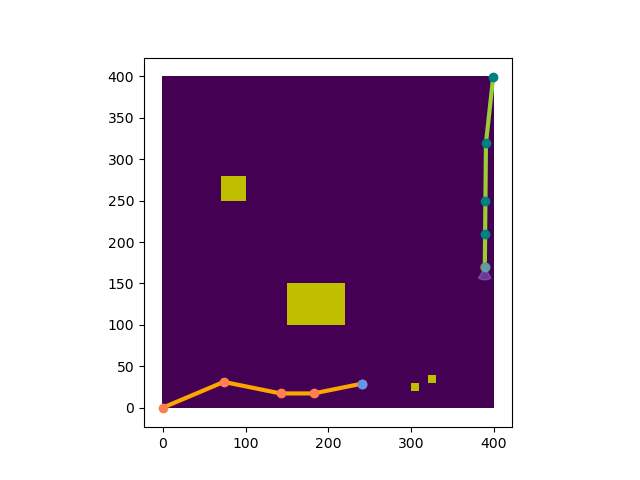
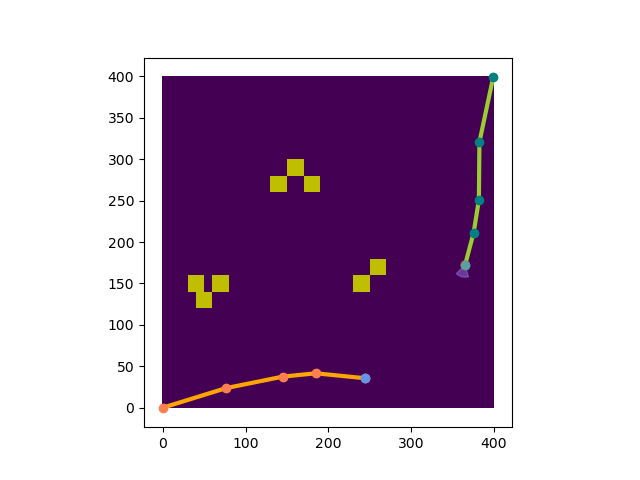
not bad

diff --git a/TaskInspectionPlanner.py b/TaskInspectionPlanner.py
@@ -89,15 +89,19 @@ class TaskInspectionPlanner(object):
                     current_inspected_timestamps = deepcopy(old_inspected_timestamps)
 
                 #add to collection of configs which managed to see a new POI
-                if len(old_inspected_timestamps) < len(current_inspected_timestamps):
-                    self.save_config(extended_config)
-                    print('improved')
-                    print(f'vertex parent info: \n timestamp: {self.tree.vertices[near_config_idx].timestamp} \n inspected timestamps: {old_inspected_timestamps}\n')
-                    print(f'new vertex info: \n timestamp: {extended_timestamp} \n inspected timestamps: {current_inspected_timestamps}\n')
+                # if len(old_inspected_timestamps) < len(current_inspected_timestamps):
+                #     self.save_config(extended_config)
+                    # print('improved')
+                    # print(f'vertex parent info: \n timestamp: {self.tree.vertices[near_config_idx].timestamp} \n inspected timestamps: {old_inspected_timestamps}\n')
+                    # print(f'new vertex info: \n timestamp: {extended_timestamp} \n inspected timestamps: {current_inspected_timestamps}\n')
 
                 extended_config_idx = self.tree.add_vertex(extended_config, extended_timestamp, inspected_timestamps=current_inspected_timestamps)
                 edge_cost = np.linalg.norm(near_config - extended_config) #POSSIBLY CHANGE THIS
                 self.tree.add_edge(near_config_idx, extended_config_idx, edge_cost)
+
+                print(f'parent timestamp = {near_timestamp}, extended_timestamp = {extended_timestamp}')
+
+                self.find_inspected_from_edge(self.tree.vertices[near_config_idx], self.tree.vertices[extended_config_idx])
 
                 if self.tree.max_coverage > self.current_coverage:
                     print(f"current max coverage is {self.tree.max_coverage}")
@@ -105,7 +109,7 @@ class TaskInspectionPlanner(object):
 
             # print(f'current size of tree = {len(self.tree.vertices)}')
 
-        plan = self.find_plan()
+        plan_configs, plan_timestamps = self.find_plan()
         # self.stats[self.current_stats_mode].append([self.compute_cost(plan), time.time()-start_time])
 
 
@@ -114,7 +118,7 @@ class TaskInspectionPlanner(object):
         computation_time = time.time()-start_time
 
         # print total path cost and time
-        print('Total cost of path: {:.2f}'.format(self.compute_cost(plan)))
+        print('Total cost of path: {:.2f}'.format(self.compute_cost(plan_configs)))
         print('Total time: {:.2f}'.format(time.time()-start_time))
 
         coverage = self.current_coverage
@@ -171,13 +175,16 @@ class TaskInspectionPlanner(object):
         current_idx = self.tree.max_coverage_id
 
         plan = [self.tree.vertices[current_idx].config]
+        timestamps = [self.tree.vertices[current_idx].timestamp]
 
         while current_idx != start_idx:
             current_idx = self.tree.edges[current_idx]
             plan.append(self.tree.vertices[current_idx].config)
+            timestamps.append(self.tree.vertices[current_idx].timestamp)
         print("plan =\n", plan)
         plan.reverse()
-        return plan
+        timestamps.reverse()
+        return plan, timestamps
 
     def get_configs(self, filename):
         configs = []
@@ -186,6 +193,25 @@ class TaskInspectionPlanner(object):
             config = [float(string) for string in strings]
             configs.append(config)
         return np.array(configs)
+
+    def find_inspected_from_edge(self, vertex_near, vertex_extended):
+        inspector_config1, inspector_config2, timestamp1, timestamp2 = vertex_near.config, vertex_extended.config, vertex_near.timestamp, vertex_extended.timestamp
+        inspected_timestamps = []
+        # iterate over timestamps and compute for each if gripper was inspected
+        for timestamp in range(int(np.ceil(timestamp1)),int(np.floor(timestamp2))+1):
+
+            # compute interpolated config for the requested time
+            delta_config = ((timestamp - timestamp1) / (timestamp2 - timestamp1)) * (inspector_config2 - inspector_config1)
+            current_config = inspector_config1 + delta_config
+
+            # check if gripper is inspected and update accordingly
+            is_inspected = self.planning_env.is_gripper_inspected_from_vertex(inspector_config=current_config, timestamp=timestamp)
+            if is_inspected:
+                inspected_timestamps.append(timestamp)
+
+        total_inspected = self.tree.compute_union(vertex_extended.inspected_timestamps, inspected_timestamps)
+        vertex_extended.inspected_timestamps = total_inspected
+            
 
     def loss_function(self, config, sample_config):
         # print('type of config = ', type(config))

diff --git a/run.py b/run.py
@@ -16,10 +16,11 @@ if __name__ == "__main__":
     # # setup and execute the planner
     # planner = TaskInspectionPlanner(planning_env=planning_env, coverage=args.coverage)
     # plan, plan_timestamps, path_coverage, path_cost, computation_time = planner.plan()
-    planning_env = MapEnvironment(json_file='map_plan_p1.json')
-    planner = TaskInspectionPlanner(planning_env=planning_env, coverage=0.1)
+    planning_env = MapEnvironment(json_file='map_plan_p2.json')
+    planner = TaskInspectionPlanner(planning_env=planning_env, coverage=0.6)
     plan, plan_timestamps, path_coverage, path_cost, computation_time = planner.plan()
 
+    # plan = []
 
     # # visualize the final path
     planner.planning_env.visualize_plan(plan=plan, plan_timestamps=plan_timestamps)

diff --git a/RRTTree.py b/RRTTree.py
@@ -86,6 +86,8 @@ class RRTTree(object):
         for _, vertex in self.vertices.items():
             if vertex.timestamp < timestamp:
                 dists.append(self.planning_env.insp_robot.compute_distance(config, vertex.config))
+            else:
+                dists.append(1000000000)
         # retrieve the id of the nearest vertex
         vid, _ = min(enumerate(dists), key=operator.itemgetter(1))
 
@@ -97,6 +99,7 @@ class RRTTree(object):
 
     def compute_union(self, inspected_points_1, inspected_points_2):
         return list(set(inspected_points_1 + inspected_points_2))
+
 
 class RRTVertex(object):
 
